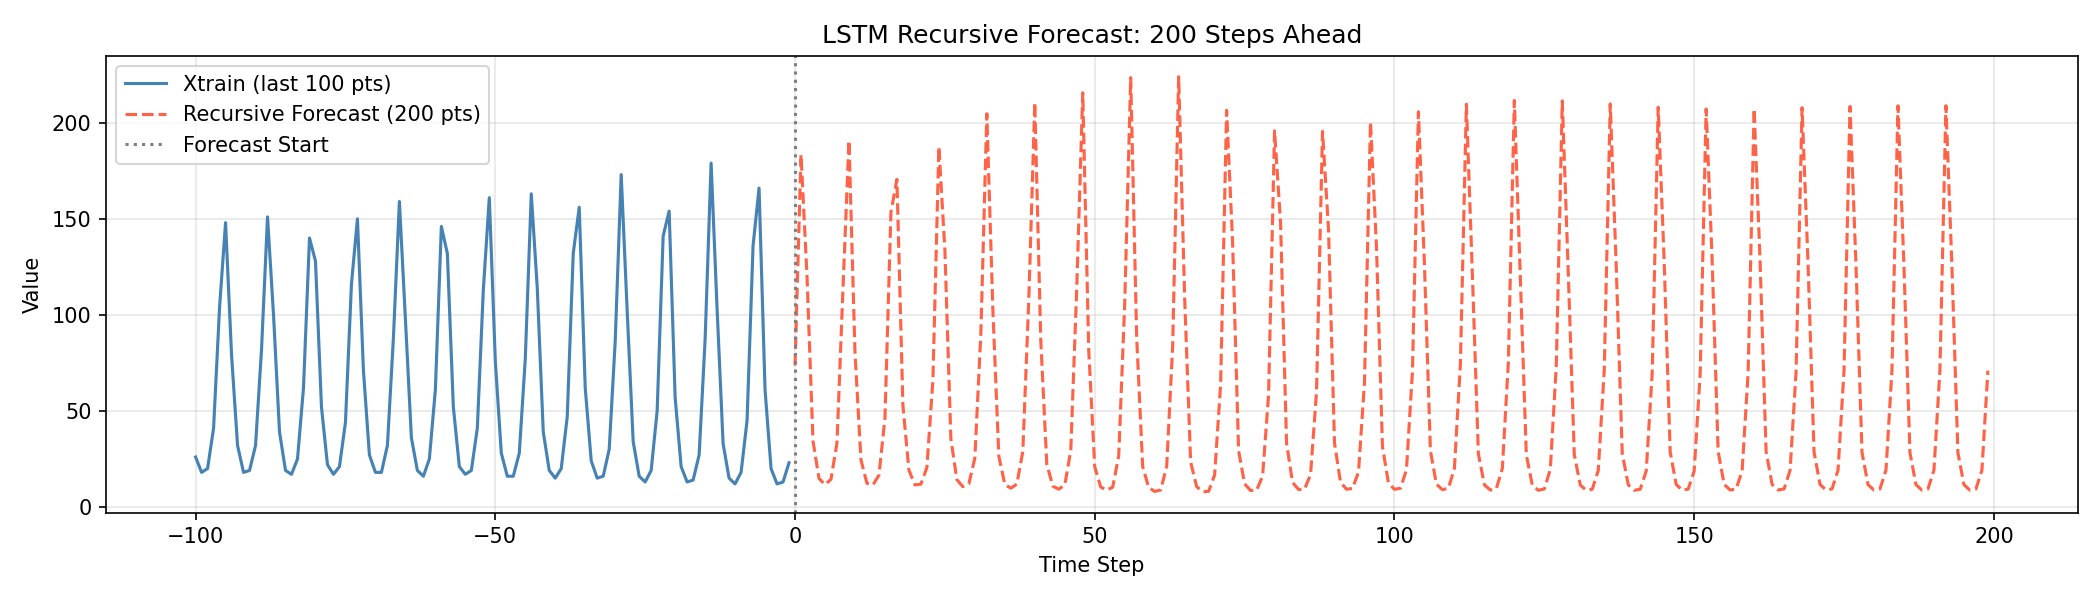
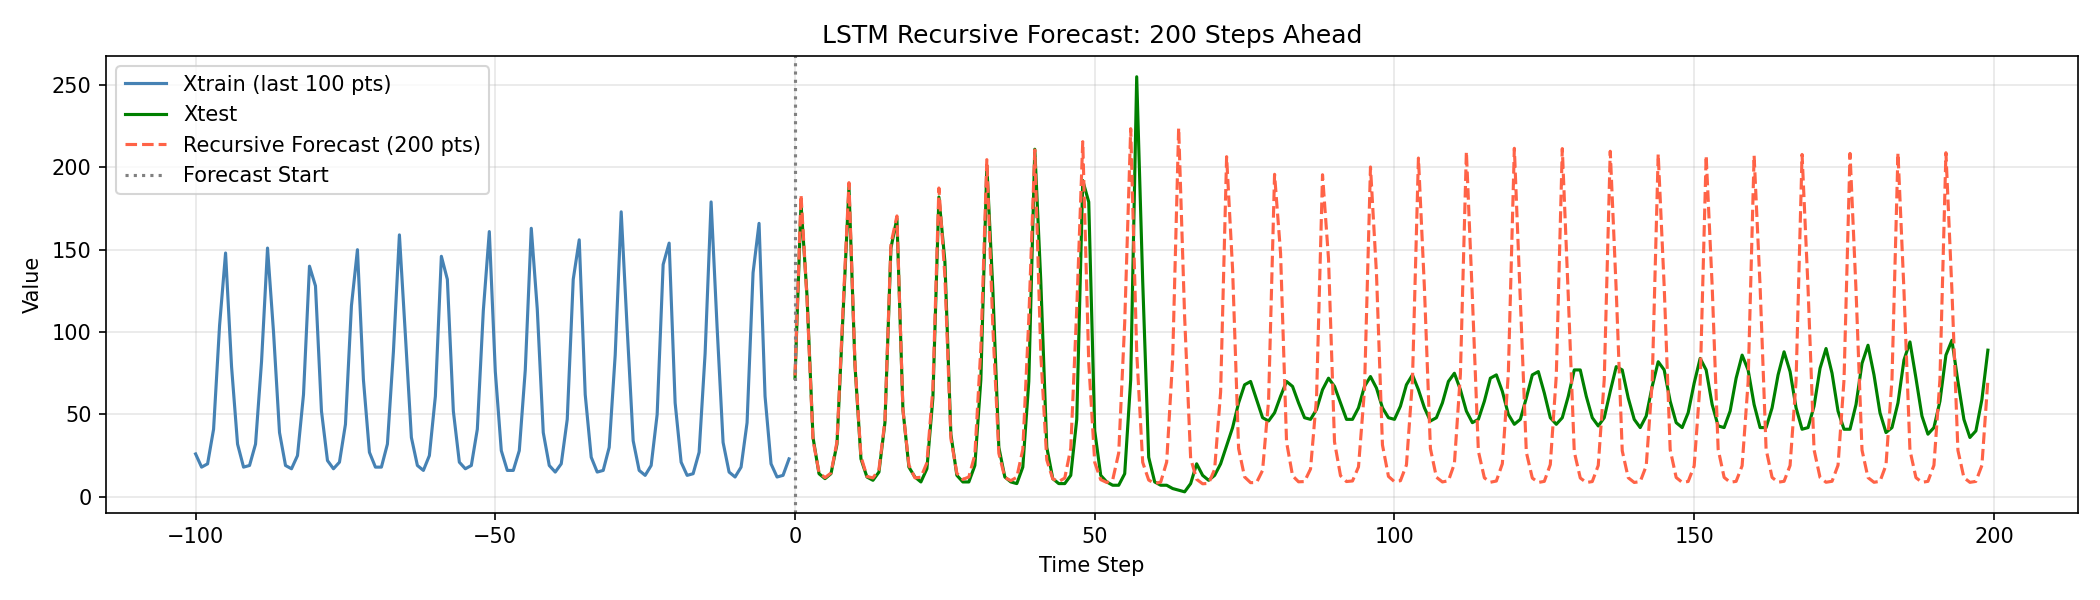
modify plot3

diff --git a/lstm_train_recursive.py b/lstm_train_recursive.py
@@ -209,9 +209,12 @@ print(f"Prediction range: [{predictions.min():.4f}, {predictions.max():.4f}]")
 
 x_history = np.arange(-N_HISTORY, 0)
 x_future  = np.arange(0, N_PREDICT)
+xtest_data = scipy.io.loadmat("Xtest.mat")
+xtest_raw  = xtest_data['Xtest'].astype(np.float32).flatten()
 
 fig, ax = plt.subplots(figsize=(14, 4))
 ax.plot(x_history, history_raw, label='Xtrain (last 100 pts)', color='steelblue')
+ax.plot(x_future,  xtest_raw,   label='Xtest',                 color='green')
 ax.plot(x_future,  predictions, label='Recursive Forecast (200 pts)',
         color='tomato', linestyle='--')
 ax.axvline(x=0, color='gray', linestyle=':', linewidth=1.5, label='Forecast Start')